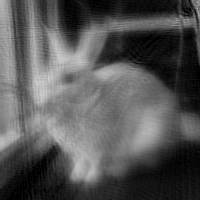
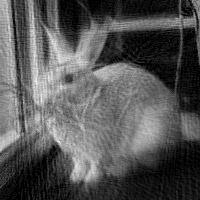
Reprise de la simu varier initialisation

diff --git a/src/simu_initialisation.py b/src/simu_initialisation.py
@@ -16,10 +16,10 @@ def image_uniforme(N_P, c):
 def main():
     # Paramètres
     N_THETA, N_RHO = 80, 80
-    I, L, H = image_depuis_fichier("exemples/lapin/lapin_200.png")
+    I, L, H = image_depuis_fichier("exemples/slp/slp_200.png")
     cst = Donnees(L, H, N_THETA, N_RHO)
-    chemin = "simulations/varier_initialisation/lapin/"
-    nom_fichier = "lapin_200_1e6_{}_{}_uni_alea.png".format(N_THETA, N_RHO)
+    chemin = "simulations/varier_initialisation_bis/slp/"
+    nom_fichier = "slp_200_1e6_{}_{}_uni_alea.png".format(N_THETA, N_RHO)
 
     # Initialisation
     A = tracer_rayons(cst)
@@ -50,10 +50,9 @@ def main():
 
     # Image approchée
     # Pour approcher l'image, on floute l'image cible
-    im = Image.open("exemples/lapin/lapin_200.png")
-    im_flou = im.filter(ImageFilter.BoxBlur(8))
-    im_flou.save("exemples/lapin/lapin_200_approche_a_detruire.png")
-    f0, _, _= image_depuis_fichier("exemples/lapin/lapin_200_approche.png")
+    # im = Image.open("exemples/lapin/lapin_200.png")
+    # im_flou = im.filter(ImageFilter.BoxBlur(8))
+    f0, _, _= image_depuis_fichier("exemples/slp/slp_200_approche.png")
     f = ART(f0, A, R, int(1e6), True, cst)
     enregistrer_image(f, L, H, chemin + "approchee_" + nom_fichier)
     ecarts["approchee"] = (ecart_moyen(I, f, L * H), ecart_norme_euc(I, f))
